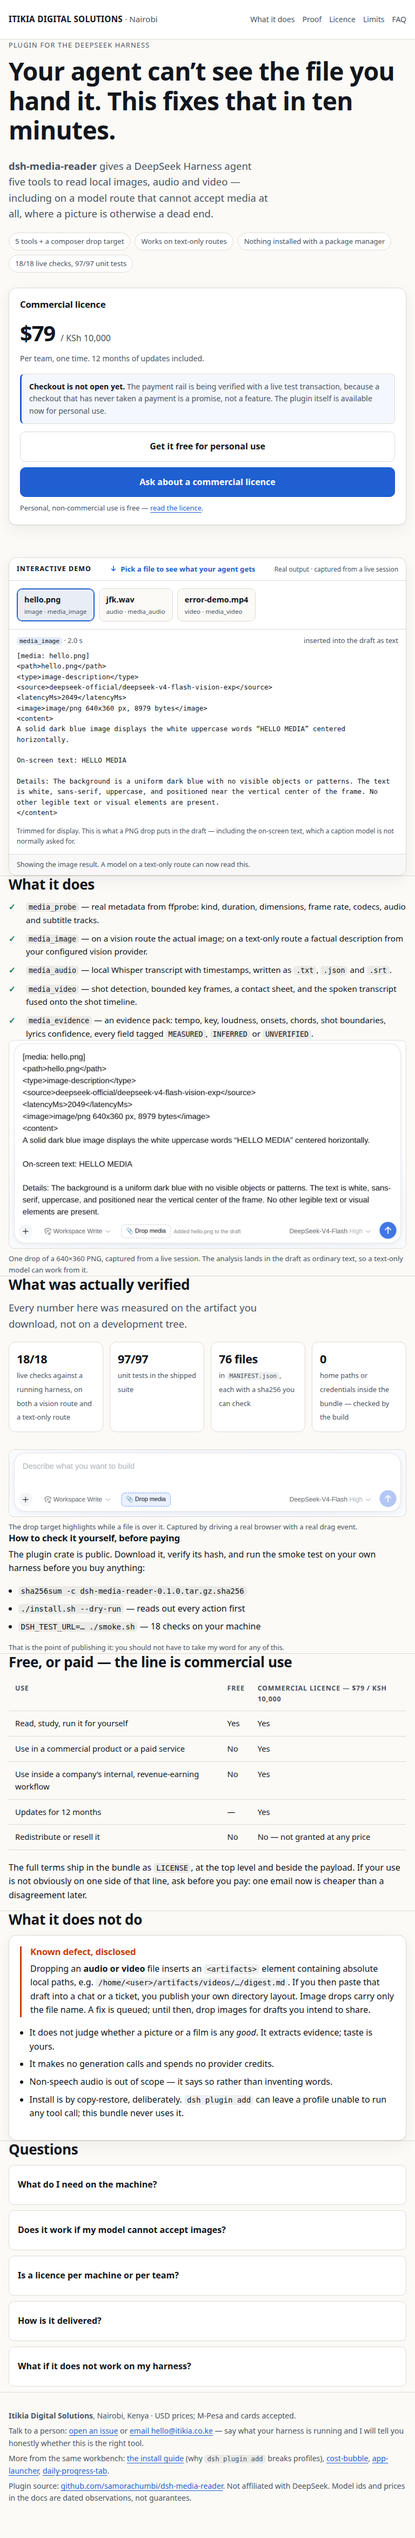
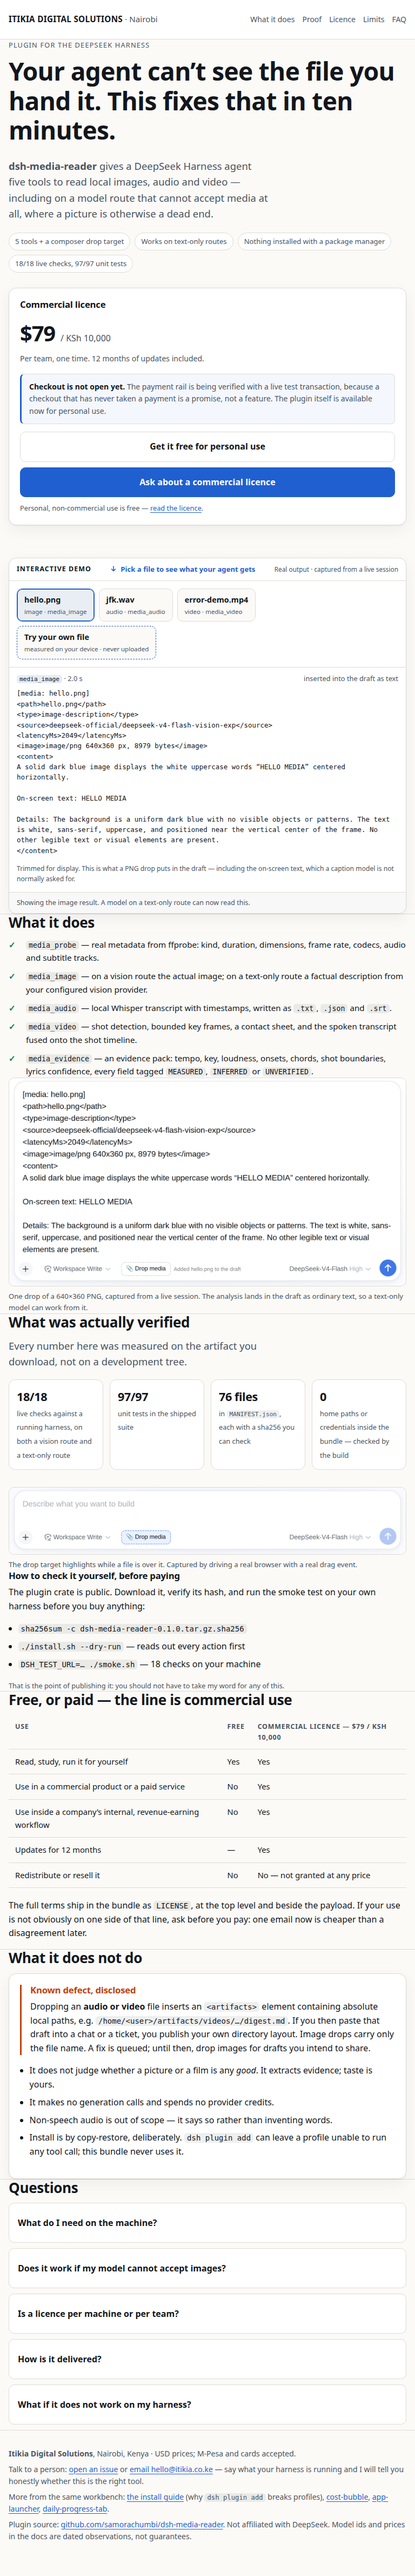
Hero demo: measure the visitor's OWN file, in the browser, with no upload
The demo showed three captured examples. A visitor's first question is "what about my file?". Answering it
with a server would mean accepting strangers' media: hosting, an API key, rate limits, size caps, a queue
timeout and a retention policy — for a page that currently has no backend at all.

So it answers the half that needs no server. A fifth control takes the visitor's file by picker or real
drag-drop and measures it **on their device**: name, type, bytes, image dimensions, audio/video duration,
video dimensions. Nothing is uploaded and the panel says so in its own output.

The half it cannot do is printed in the result as `<notMeasuredHere>` — the description, the on-screen
text, the transcript, the shots, tempo and key all need ffprobe, faster-whisper and the vision route on a
harness. That gap is the sales argument: the plugin adds the reading, not the metadata.

Verified against ffprobe on the same files: hello.png 640x360 / 8979 bytes, jfk.wav 11.00 s,
error-demo.mp4 640x360 / 11.00 s via a real drag-drop, and package.json refused with an honest message.

**A capture caught a race the tests had not.** The header read "your browser · 0.02 s" while the body still
held the plugin's hello.png block: the demo's initial render used a 700 ms timer, so a visitor who picked
their own file inside that window had the result silently overwritten. The initial paint is now synchronous
[…]

diff --git a/store/index.html b/store/index.html
@@ -166,6 +166,9 @@
   .demo-file:hover { border-color: var(--accent); }
   .demo-file:focus-visible { outline: 3px solid var(--accent); outline-offset: 2px; }
 
+  .demo-file--own { border-style: dashed; border-color: var(--accent); }
+  .demo-shell[data-dropping] { outline: 3px dashed var(--accent); outline-offset: 3px; }
+  .demo-shell[data-dropping] .demo-stage { opacity: .6; }
   .demo-stage { padding: 0; }
   .demo-stage-head {
     display: flex; flex-wrap: wrap; gap: 4px 10px; align-items: baseline; justify-content: space-between;
@@ -264,6 +267,10 @@
             <button type="button" class="demo-file" data-demo="video" aria-pressed="false">
               error-demo.mp4 <small>video · media_video</small>
             </button>
+            <label class="demo-file demo-file--own" for="demo-file">
+              <input type="file" id="demo-file" accept="image/*,audio/*,video/*" hidden>
+              Try your own file <small>measured on your device · never uploaded</small>
+            </label>
           </div>
 
           <div class="demo-stage" data-demo-stage data-state="idle">
@@ -566,7 +573,7 @@ Details: The background is a uniform dark blue with no visible objects or patter
   var reduced = window.matchMedia('(prefers-reduced-motion: reduce)').matches;
   var timer = null;
 
-  function render(key, { announce } = { announce: true }) {
+  function render(key, { announce = true, immediate = false } = {}) {
     var d = DEMOS[key];
     if (!d) return;
 
@@ -586,7 +593,7 @@ Details: The background is a uniform dark blue with no visible objects or patter
     };
 
     if (timer) { clearTimeout(timer); timer = null; }
-    if (reduced) { paint(); return; }
+    if (reduced || immediate) { paint(); return; }
     timer = setTimeout(paint, 700);
   }
 
@@ -594,8 +601,168 @@ Details: The background is a uniform dark blue with no visible objects or patter
     b.addEventListener('click', function () { render(b.getAttribute('data-demo')); });
   });
 
-  // the markup already shows the image result, so a reader with scripting off still sees a real one
-  render('image', { announce: false });
+  // Expose a cancel seam: a pending paint must never overwrite a result the visitor triggered later.
+  window.__dshDemoCancelPaint = function () { if (timer) { clearTimeout(timer); timer = null; } };
+
+  // The markup already holds the image result, so the initial render is synchronous — with a timer, a
+  // visitor who picks their own file within 700 ms had it silently replaced by the example.
+  render('image', { announce: false, immediate: true });
+})();
+</script>
+<script>
+// "Try your own file": measure the visitor's file IN THE BROWSER, with no upload.
+//
+// Why it is built this way: the plugin's reading (description, transcript, shots, tempo) needs ffprobe,
+// faster-whisper, a DSP worker and the vision route — all on the harness host. A static page cannot run
+// any of that, and uploading a stranger's media to a server would mean hosting, cost, abuse control and
+// a data-retention policy. So this measures exactly the part a browser can measure, says plainly what it
+// cannot, and makes that gap the point: the plugin adds the READING, not the metadata.
+(function () {
+  var input = document.getElementById('demo-file');
+  var shell = document.querySelector('.demo-shell');
+  var stage = document.querySelector('[data-demo-stage]');
+  if (!input || !shell || !stage) return;
+
+  var toolEl = document.querySelector('[data-demo-tool]');
+  var timeEl = document.querySelector('[data-demo-timing]');
+  var headRight = stage.querySelector('.demo-stage-head > span:last-child');
+  var bodyEl = document.querySelector('[data-demo-body]');
+  var noteEl = document.querySelector('[data-demo-note]');
+  var statusEl = document.querySelector('[data-demo-status]');
+  var buttons = Array.prototype.slice.call(document.querySelectorAll('[data-demo]'));
+  var defaultHeadRight = headRight ? headRight.textContent : '';
+
+  var bytes = function (n) {
+    if (n < 1024) return n + ' bytes';
+    if (n < 1048576) return (n / 1024).toFixed(1) + ' KB (' + n.toLocaleString() + ' bytes)';
+    return (n / 1048576).toFixed(1) + ' MB (' + n.toLocaleString() + ' bytes)';
+  };
+  var secs = function (d) { return isFinite(d) ? d.toFixed(2) + ' s' : 'not reported'; };
+
+  function mediaMeta(url, tag) {
+    return new Promise(function (resolve, reject) {
+      var el = document.createElement(tag);
+      el.preload = 'metadata';
+      el.muted = true;
+      var done = function () { URL.revokeObjectURL(url); resolve(el); };
+      el.onloadedmetadata = done;
+      el.onerror = function () { URL.revokeObjectURL(url); reject(new Error('this browser cannot decode that file')); };
+      el.src = url;
+    });
+  }
+
+  function measureImage(file) {
+    if (typeof createImageBitmap !== 'function') return Promise.reject(new Error('createImageBitmap unavailable'));
+    return createImageBitmap(file).then(function (bmp) {
+      var d = { width: bmp.width, height: bmp.height };
+      bmp.close && bmp.close();
+      return d;
+    });
+  }
+
+  function measure(file) {
+    var t = file.type || '';
+    var url = URL.createObjectURL(file);
+    if (t.indexOf('image/') === 0) {
+      return measureImage(file).then(function (d) {
+        return { kind: 'image', dims: d.width + 'x' + d.height + ' px' };
+      });
+    }
+    if (t.indexOf('video/') === 0) {
+      return mediaMeta(url, 'video').then(function (el) {
+        return { kind: 'video',
+          dims: el.videoWidth ? el.videoWidth + 'x' + el.videoHeight + ' px' : 'not reported',
+          duration: secs(el.duration) };
+      });
+    }
+    if (t.indexOf('audio/') === 0) {
+      return mediaMeta(url, 'audio').then(function (el) {
+        return { kind: 'audio', duration: secs(el.duration) };
+      });
+    }
+    URL.revokeObjectURL(url);
+    return Promise.reject(new Error('not an image, audio or video file'));
+  }
+
+  function show(file, meta, elapsed) {
+    var lines = [
+      '[your file: ' + file.name + ']',
+      '<path>' + file.name + '</path>',
+      '<type>' + meta.kind + (file.type ? ' (' + file.type + ')' : '') + '</type>',
+      '<size>' + bytes(file.size) + '</size>'
+    ];
+    if (meta.dims) lines.push('<dimensions>' + meta.dims + '</dimensions>');
+    if (meta.duration) lines.push('<duration>' + meta.duration + '</duration>');
+    lines.push(
+      '<measuredBy>your browser, on this device — the file was never uploaded</measuredBy>',
+      '<notMeasuredHere>the description, the on-screen text, the transcript, the shots, tempo and key. ' +
+      'Those need ffprobe, faster-whisper and the vision route running on your own harness — that is what the ' +
+      'plugin adds. This page can only show you the container.</notMeasuredHere>'
+    );
+
+    buttons.forEach(function (b) { b.setAttribute('aria-pressed', 'false'); });
+    toolEl.textContent = 'your browser';
+    timeEl.textContent = '\u00b7 ' + elapsed.toFixed(2) + ' s';
+    if (headRight) headRight.textContent = 'measured on this device, not by the plugin';
+    bodyEl.textContent = lines.join('\n');
+    noteEl.textContent = 'Nothing was sent anywhere: no upload, no request, no log. Compare the two halves — ' +
+      'the metadata is free, the reading is the product.';
+    statusEl.textContent = 'Measured ' + file.name + ' on your device. Nothing was uploaded.';
+    stage.setAttribute('data-state', 'done');
+  }
+
+  function fail(file, err) {
+    buttons.forEach(function (b) { b.setAttribute('aria-pressed', 'false'); });
+    toolEl.textContent = 'your browser';
+    timeEl.textContent = '\u00b7 failed';
+    if (headRight) headRight.textContent = 'measured on this device, not by the plugin';
+    bodyEl.textContent = '[your file: ' + (file ? file.name : 'unknown') + ']\n<error>' + err.message + '</error>';
+    noteEl.textContent = 'A browser can only read containers it can decode. The plugin does not have that limit: ' +
+      'ffprobe and faster-whisper run locally on your harness and accept far more formats.';
+    statusEl.textContent = 'Could not measure that file in this browser.';
+    stage.setAttribute('data-state', 'done');
+  }
+
+  function take(file) {
+    if (!file) return;
+    // a pending example paint would clobber this a moment later
+    if (typeof window.__dshDemoCancelPaint === 'function') window.__dshDemoCancelPaint();
+    var started = Date.now();
+    statusEl.textContent = 'Measuring ' + file.name + ' on your device\u2026';
+    measure(file).then(function (meta) {
+      show(file, meta, (Date.now() - started) / 1000);
+    }).catch(function (err) { fail(file, err); });
+  }
+
+  input.addEventListener('change', function () {
+    take(input.files && input.files[0]);
+    input.value = '';   // so the same file can be chosen twice
+  });
+
+  // the whole panel is a drop target, and the browser's own default (navigate to the file) is cancelled
+  ['dragenter', 'dragover'].forEach(function (evt) {
+    shell.addEventListener(evt, function (e) {
+      if (e.dataTransfer && Array.prototype.indexOf.call(e.dataTransfer.types || [], 'Files') >= 0) {
+        e.preventDefault();
+        shell.setAttribute('data-dropping', 'true');
+      }
+    });
+  });
+  ['dragleave', 'drop'].forEach(function (evt) {
+    shell.addEventListener(evt, function () { shell.removeAttribute('data-dropping'); });
+  });
+  shell.addEventListener('drop', function (e) {
+    if (!e.dataTransfer || !e.dataTransfer.files || e.dataTransfer.files.length === 0) return;
+    e.preventDefault();
+    take(e.dataTransfer.files[0]);
+  });
+
+  // clicking one of the captured examples restores the plugin's own output header
+  buttons.forEach(function (b) {
+    b.addEventListener('click', function () {
+      if (headRight) headRight.textContent = defaultHeadRight;
+    });
+  });
 })();
 </script>
 </body>

diff --git a/store/evidence/MANIFEST.md b/store/evidence/MANIFEST.md
@@ -6,9 +6,9 @@ was committed with. Full-page captures, lazy images forced to load first.
 
 | file | viewport | page height | horizontal overflow | images |
 |---|---|---|---|---|
-| `page-320.png` | 320 × 900 | 7106 px | none | 2/2 loaded |
-| `page-390.png` | 390 × 900 | 6114 px | none | 2/2 loaded |
-| `page-768.png` | 768 × 900 | 4693 px | none | 2/2 loaded |
+| `page-320.png` | 320 × 900 | 7194 px | none | 2/2 loaded |
+| `page-390.png` | 390 × 900 | 6184 px | none | 2/2 loaded |
+| `page-768.png` | 768 × 900 | 4762 px | none | 2/2 loaded |
 | `page-1440.png` | 1440 × 900 | 3500 px | none | 2/2 loaded |
 
 The PNG's own pixel height equals the page height in this table — checked with `ffprobe`, because an
@@ -90,3 +90,42 @@ rather than an empty panel.
 **What the demo does not prove:** that a dropped file behaves identically on your harness — the text is a
 captured record, not a live analysis on the visitor's machine. Paths in the audio and video blocks are
 shown as bare file names, and each block is trimmed; the note under the panel says both.
+
+## "Try your own file" — measured on the device, nothing uploaded
+
+The four chips above show captured plugin output. The fifth control lets a visitor measure **their own**
+file, in the browser, with no upload and no server.
+
+That split is deliberate. The plugin's reading needs `ffprobe`, `faster-whisper`, a numpy/scipy DSP worker
+and the vision route — all on the harness host. A static page cannot run any of it, and uploading a
+stranger's media would mean hosting, cost, abuse control and a retention policy. So the browser measures
+what a browser can measure, the panel says plainly what it cannot, and that gap is the sales argument: the
+plugin adds the *reading*, not the metadata.
+
+Verified against **ffprobe** on the same files, so the browser's numbers are not taken on trust:
+
+| input | path | browser said | ffprobe says |
+|---|---|---|---|
+| `hello.png` | file picker | `640x360 px`, `8.8 KB (8,979 bytes)` | 640×360, 8979 bytes |
+| `jfk.wav` | file picker | `11.00 s` | 11.00 s |
+| `error-demo.mp4` | **real drag-drop** | `640x360 px`, `11.00 s` | 640×360, 11.00 s |
+| `package.json` | file picker | refused: `not an image, audio or video file` | n/a |
+
+### The race this caught, and the test that now pins it
+
+A capture showed the header reading *"your browser · 0.02 s"* while the panel body still held the plugin's
+`hello.png` block. Cause: the demo's initial render used a 700 ms timer, so a visitor who picked their own
+file inside that window had the result silently overwritten.
+
+The initial paint is now synchronous and a pending paint is cancelled when a file is picked. The harness
+gained a race case (click an example, pick a file 100 ms later, wait 1.2 s, assert the visitor's file is
+still shown), and **it was shown to fail on the defect**: with the race reintroduced in a throwaway copy,
+the harness died naming the stale content — `drop never showed error-demo.mp4; panel says "[media:
+hello.png]"`. All 8 checks pass on the fixed page.
+
+### What this still does not prove
+
+- Nothing is claimed about formats the browser cannot decode (e.g. HEIC, MKV): those take the failure path
+  with an honest message, which is *not* the same as the plugin accepting them.
+- The client-side measurement is a convenience, not the product: it does not read, describe, transcribe or
+  detect anything.

diff --git a/store/README.md b/store/README.md
@@ -103,3 +103,36 @@ The rest of the workbench this store sits on:
 - [dsh-cost-bubble](https://github.com/samorachumbi/dsh-cost-bubble) — live cost of the current chat
 - [dsh-app-launcher](https://github.com/samorachumbi/dsh-app-launcher) — plugin pages in their own OS window
 - [dsh-daily-progress-tab](https://github.com/samorachumbi/dsh-daily-progress-tab) — the planner tab
+
+## "Try your own file" — and why it stops where it does
+
+The demo's fifth control measures the visitor's own file **in the browser**, with no upload and no server:
+name, type, byte size, image dimensions, audio/video duration and video dimensions. Verified against
+`ffprobe` on the same fixtures, so the browser's numbers are not taken on trust.
+
+It deliberately stops there, and the panel says so in its own output:
+
+```
+<notMeasuredHere>the description, the on-screen text, the transcript, the shots, tempo and key.
+Those need ffprobe, faster-whisper and the vision route running on your own harness — that is what the
+plugin adds. This page can only show you the container.</notMeasuredHere>
+```
+
+### Could a visitor's own file be interpreted live on the page?
+
+Not from a static site, and the reason is the product itself: the reading is done by `ffprobe`,
+`faster-whisper`, a numpy/scipy DSP worker and the vision route, all on the harness host. Three options,
+honestly costed:
+
+| option | what the visitor gets | what it costs | verdict |
+|---|---|---|---|
+| **A. browser-local measurement** (built) | their file's real container facts, instantly | nothing — no server, no upload, no data handling | shipped |
+| **B. our server runs the real tools** | the actual description / transcript / shots for their file | a container with ffmpeg + faster-whisper (~500 MB image plus a base model), one job at a time, an API key for the vision route, per-IP rate limits, hard caps (≈10 MB image, ≈30 s audio/video), a queue timeout, and a retention policy because someone else's media is now on your disk. Roughly 1–2 build-days plus $5–15/month, and each demo spends a few cents of vision tokens | do it only after the first sales justify it |
+| **C. "request a 15-minute live demo"** | a real person analysing their real file | your time only | the cheapest way to serve the visitor who wants B |
+
+The honest recommendation for launch is **A + C**: A is already live and costs nothing, and C converts the
+high-intent visitor without a public upload endpoint. B becomes worth building when there is evidence that
+visitors abandon because the demo is not *their* file.
+
+**Nothing about A implies B.** The page never suggests the visitor's file is being analysed; the panel
+states what was measured, by what, and what was not.
